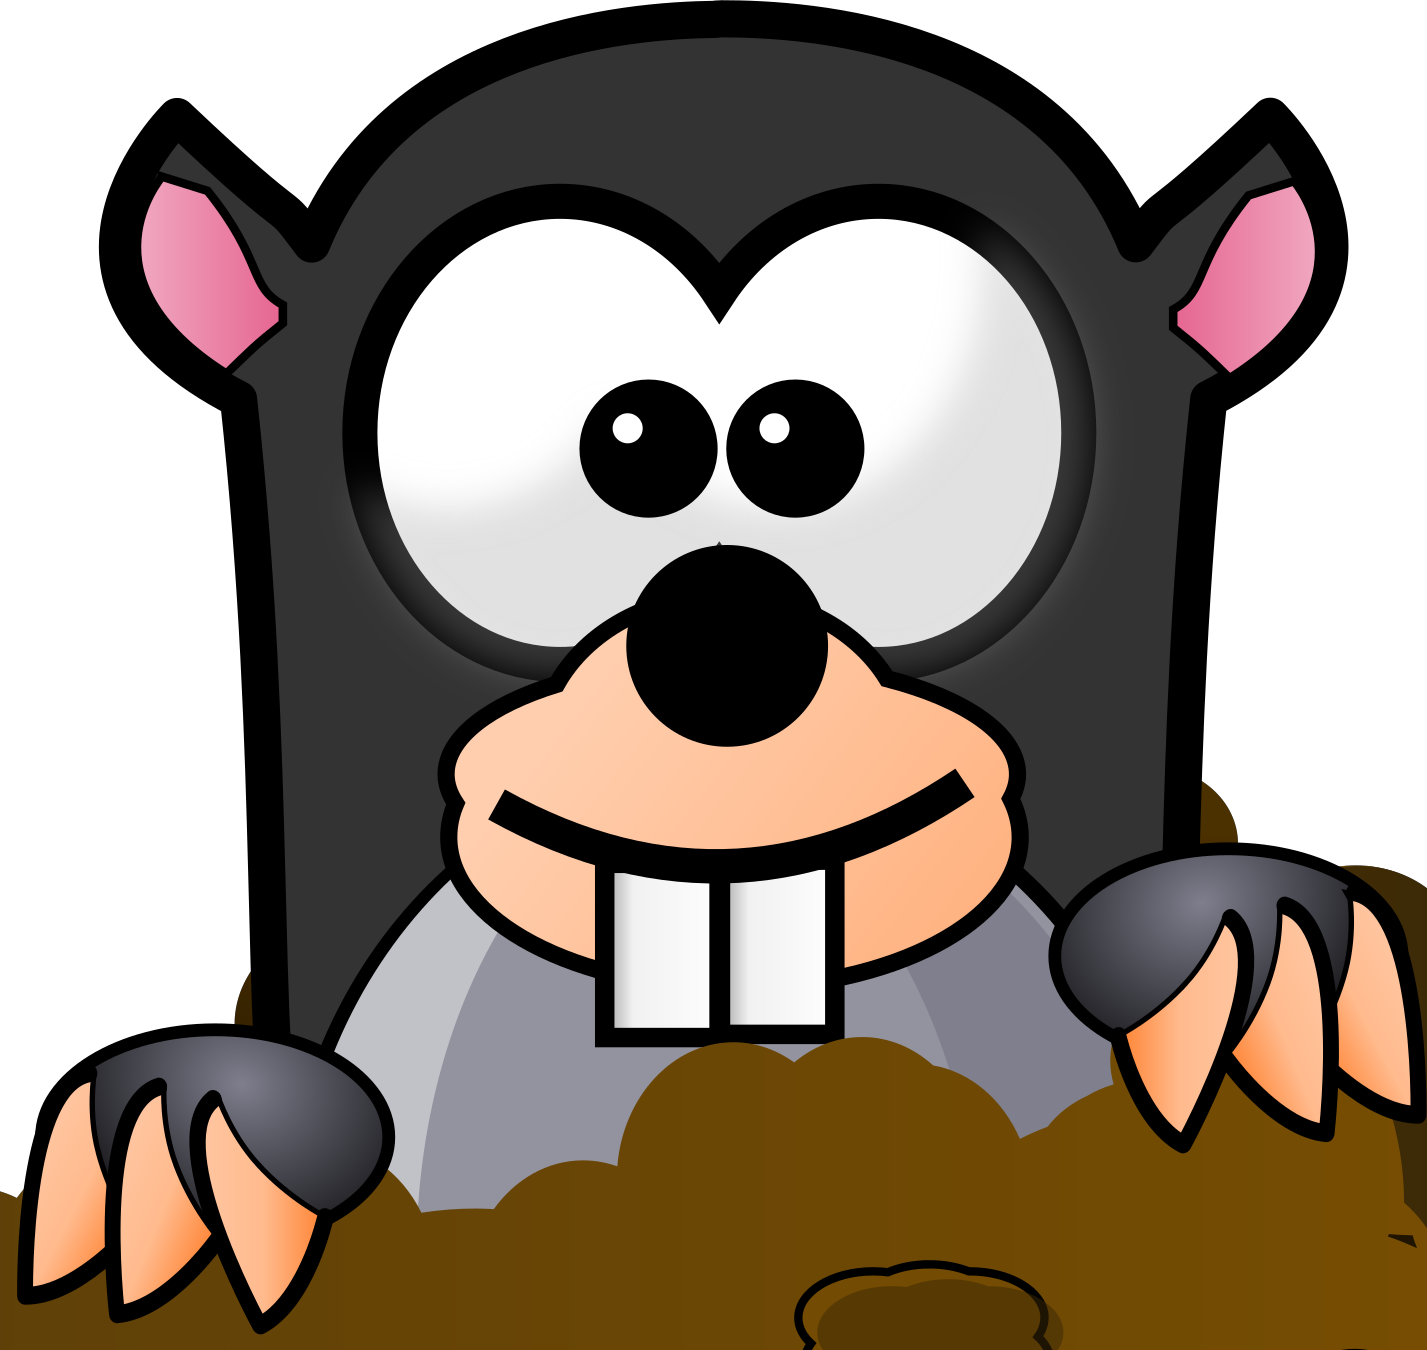
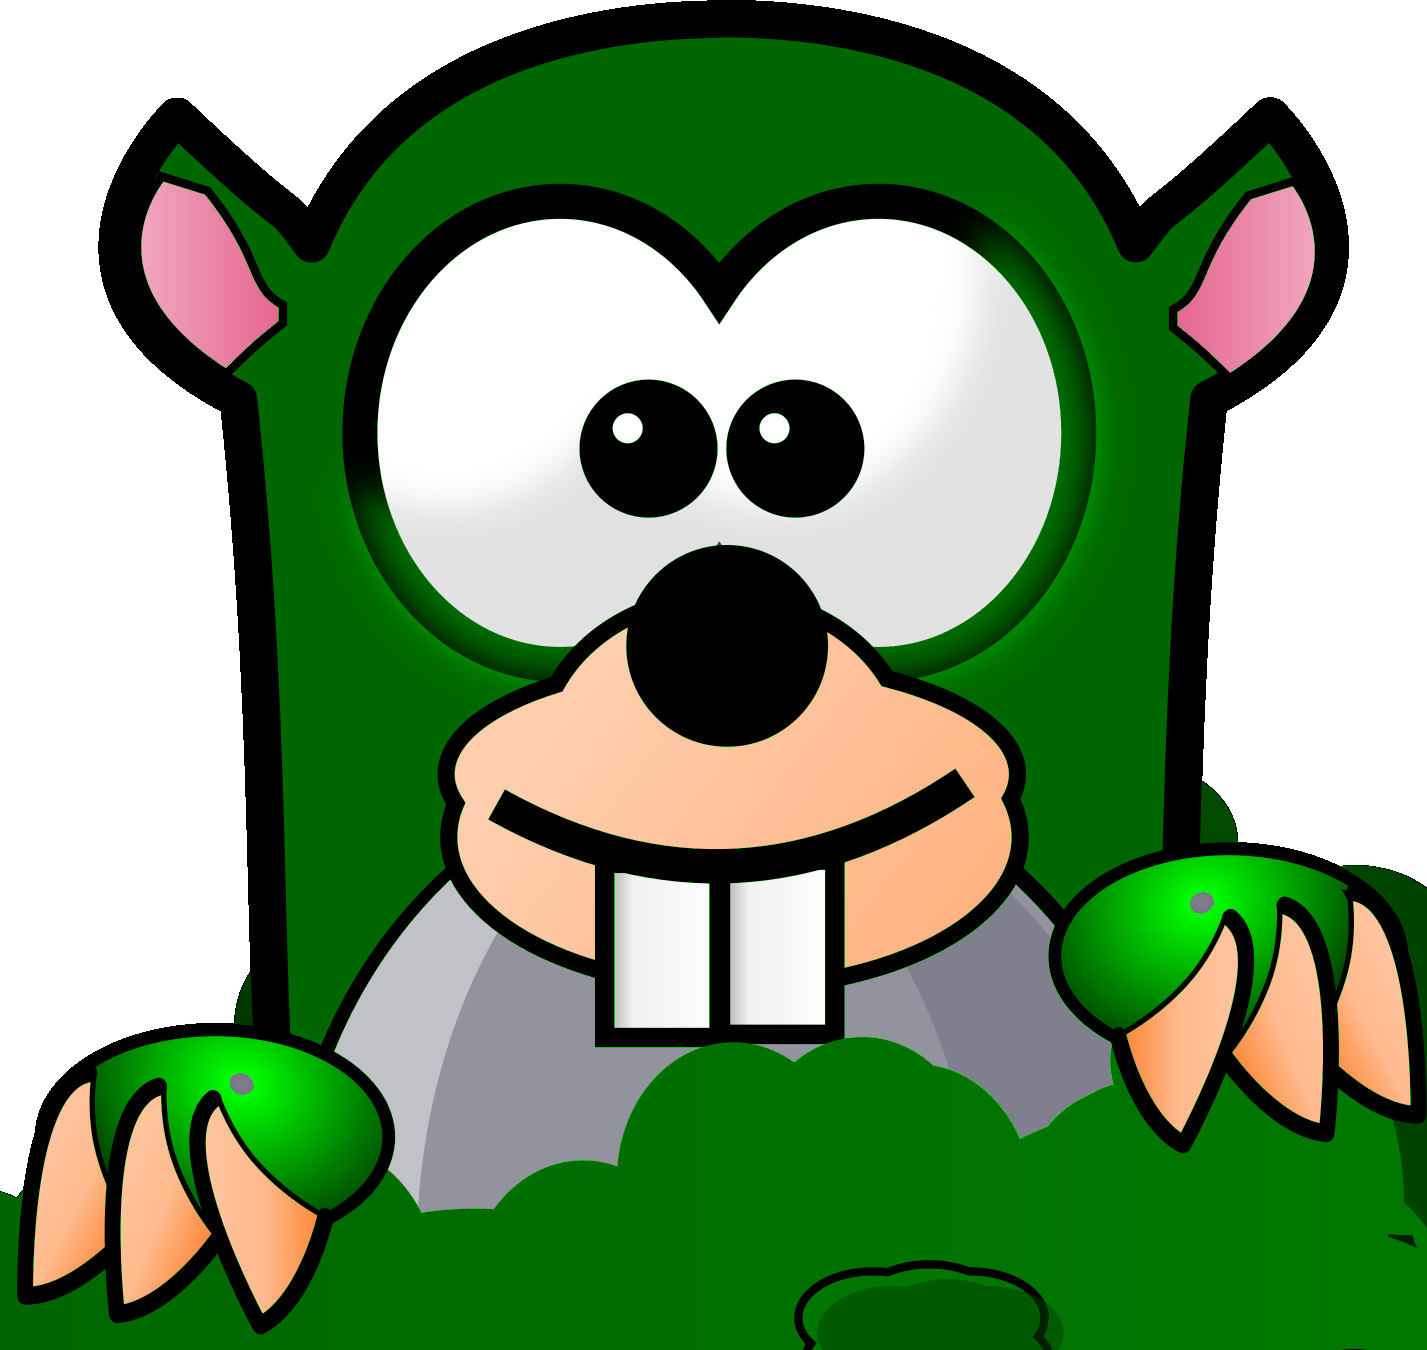
mole pop up interval + random mole color

diff --git a/res/js/main.js b/res/js/main.js
@@ -8,39 +8,58 @@ const holes = document.getElementsByClassName("hole");
 const hammer = document.getElementById("hammer");
 
 let score = 0;
+let maxScore = 0;
+let moleType;
+let i;
 
 startGame.onclick = () => {
     startPage.style.display = "none";
     game.style.display = "flex";
-}
+};
 
-window.addEventListener('mousemove', e =>{
-    hammer.style.top = e.pageY + 'px';
-    hammer.style.left = e.pageX + 'px';
-})
+window.addEventListener("mousemove", (e) => {
+    hammer.style.top = e.pageY + "px";
+    hammer.style.left = e.pageX + "px";
+});
 
 window.onmousedown = () => {
     hammer.style.transform = "translate(-20%, -20%) rotate(-75deg)";
-}
+};
 
 window.onmouseup = () => {
-    hammer.style.transform =  "translate(-48%, -35%) rotate(-26deg)";
+    hammer.style.transform = "translate(-48%, -35%) rotate(-26deg)";
+};
+const RandomMole = (minimum, maximum) => {
+    const myMole = Math.floor(
+        Math.random() * (maximum - minimum + 1 + minimum)
+    );
+    return myMole;
+};
+
+const MoleFunction = () => {
+    i = RandomMole(0, 8);
+    moleType = RandomMole(0, 4);
+    moles[i].style.backgroundImage = `url(./res/img/mole${moleType}.png)`
+    moles[i].style.animation = `moleIn 300ms forwards`;
+};
+
+function run() {
+    MoleFunction();
+    setInterval(() => {
+        moles[i].style.animation = `moleOut 300ms forwards`;
+
+        MoleFunction();
+    }, 1000);
 }
 
-        
-function run() {
-            const i = Math.floor(Math.random() * moles.length);
-            
-            moles[i].style.animation = `moleIn 400ms forwards`;
-            [...moles].forEach((mole) => {
-                mole.onclick = () => {
-                    mole.style.animation = `moleOut 400ms forwards`;
-                    score++;
-                    scoreNumber.innerText = score;
-                }
-            });
-}
+[...moles].forEach((mole) => {
+    mole.onclick = () => {
+        mole.style.animation = `moleOut 300ms forwards`;
+        score++;
+        scoreNumber.innerText = score;
+    };
+});
 
 startGame.onclick = () => {
-    run()
-}
+    run();
+};

diff --git a/index.html b/index.html
@@ -26,23 +26,23 @@
         <div id="molesInfo">
             <h2>Points for mole</h2>
             <div>
-                <img src="./res/img/mole1.png" alt="" class="moleInfoImg">
+                <img src="./res/img/mole0.png" alt="" draggable="false" class="moleInfoImg">
                 <b id="mole1InfoPoints">???</b>
             </div>
             <div>
-                <img src="./res/img/mole2.png" alt="" class="moleInfoImg">
+                <img src="./res/img/mole1.png" alt="" draggable="false" class="moleInfoImg">
                 <b id="mole2InfoPoints">???</b>
             </div>
             <div>
-                <img src="./res/img/mole3.png" alt="" class="moleInfoImg">
+                <img src="./res/img/mole2.png" alt="" draggable="false" class="moleInfoImg">
                 <b id="mole3InfoPoints">???</b>
             </div>
             <div>
-                <img src="./res/img/mole4.png" alt="" class="moleInfoImg">
+                <img src="./res/img/mole3.png" alt="" draggable="false" class="moleInfoImg">
                 <b id="mole4InfoPoints">???</b>
             </div>
             <div>
-                <img src="./res/img/mole5.png" alt="" class="moleInfoImg">
+                <img src="./res/img/mole4.png" alt="" draggable="false" class="moleInfoImg">
                 <b id="mole5InfoPoints">???</b>
             </div>
         </div>

diff --git a/res/css/style.css b/res/css/style.css
@@ -1,6 +1,7 @@
 *{
     box-sizing: border-box;
     user-select: none;
+    font-family: sans-serif;
 }
 body{
     margin: 0;
@@ -53,17 +54,25 @@ header{
 }
 #molesInfo{
     position: absolute;
-    left: 10px;
-    top: 100px;
+    left: 40px;
+    top: 120px;
+    height: 660px;
+    display: flex;
+    flex-direction: column;
+    justify-content: space-between;
+}
+#molesInfo > h2{
+    font-size: 33px;
+    margin-bottom: 13px;
 }
 #molesInfo > div{
     display: flex;
     align-items: center;
-    justify-content: space-between;
+    justify-content: space-around;
 }
 .moleInfoImg{
     width: 100px;
-    height: 100px;
+    border-radius: 30%;
 }
 #mole1InfoPoints, #mole2InfoPoints, #mole3InfoPoints, #mole4InfoPoints, #mole5InfoPoints{
     font-size: 35px;
@@ -98,7 +107,7 @@ header{
     width: 60px;
     height: 60px;
     transform: translate(-10%, -34%);
-    background-image: url(../img/mole1.png);
+    background-image: url(../img/mole0.png);
     background-size: 100%;
     background-repeat: no-repeat;
 }
